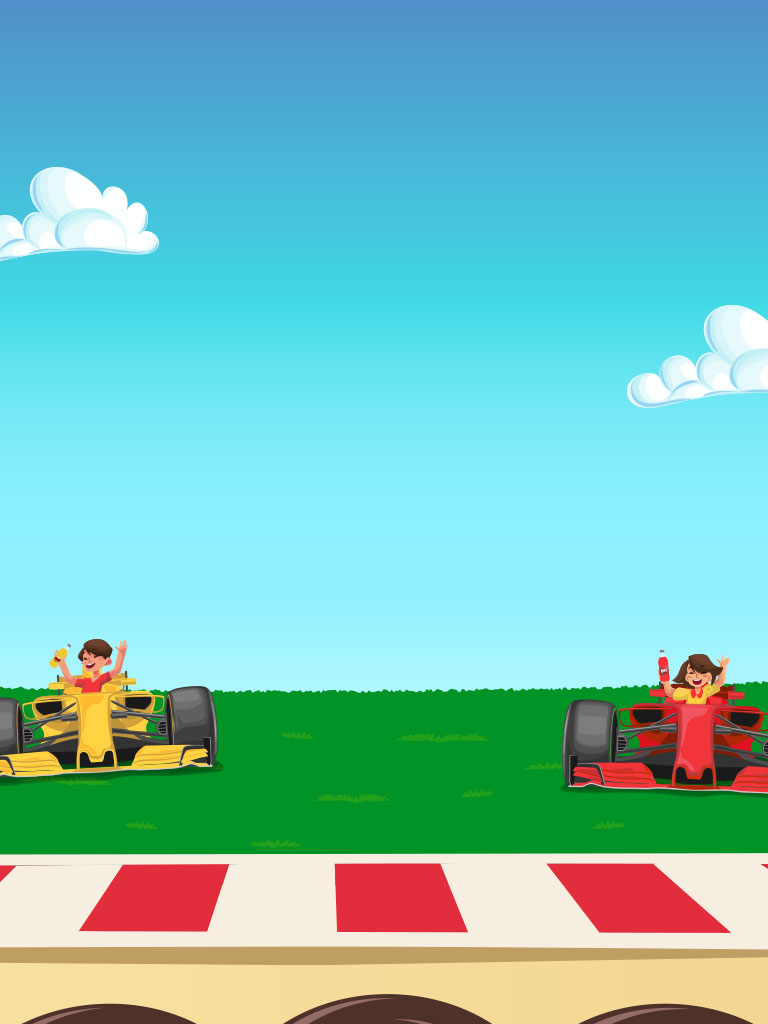
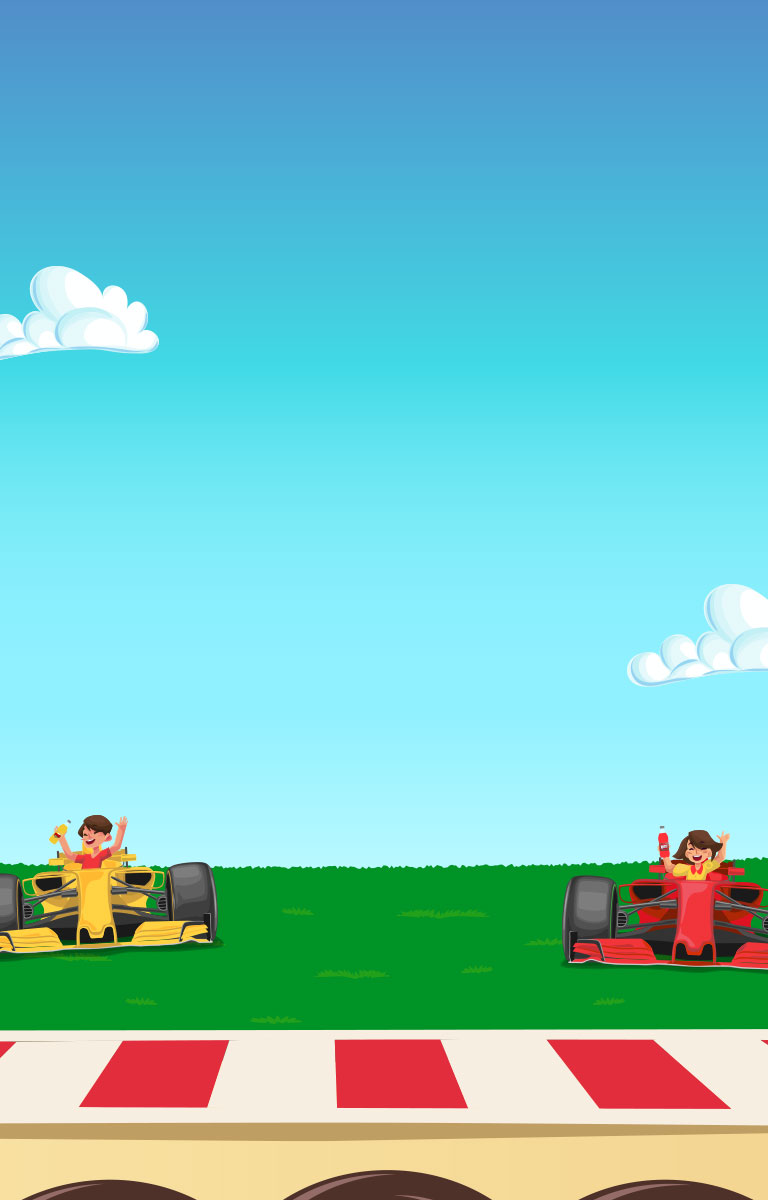
touches

diff --git a/src/_styles/pages/_home.scss b/src/_styles/pages/_home.scss
@@ -16,6 +16,25 @@
             height: 100%;
             z-index: -1;
 
+            @include mq(sm) {
+                display: none;
+            }
+
+            img {
+                width: 100%;
+                height: auto;
+            }
+        }
+
+        &__backdrop-tablet {
+            display: none;
+            height: 100%;
+            z-index: -1;
+
+            @include mq(sm) {
+                display: block;
+            }
+
             @include mq(md) {
                 display: none;
             }
@@ -83,7 +102,7 @@
         &__title {
             display: none;
 
-            @include mq(md) {
+            @include mq(sm) {
                 display: block;
                 font-size: 58px;
                 text-align: center;
@@ -94,7 +113,7 @@
         &__subtitle {
             display: none;
 
-            @include mq(md) {
+            @include mq(sm) {
                 display: block;
                 text-align: center;
                 font-size: 28px;
@@ -105,7 +124,20 @@
             }
         }
 
-        ._slidermulti {
+        &__slider {
+
+            position: absolute;
+            width: 100%;
+            left: 0;
+            top: 17%;
+
+            @include mq(sm) {
+                top: 25%;
+            }
+
+            @include mq(md) {
+                top: 32%;
+            }
             // button {
             //
             // }
@@ -137,17 +169,6 @@
             .slick-prev {
                 background: url("/images/arrow-prev.png") center center / cover !important;
                 left: 10px;
-            }
-        }
-
-        &__slider {
-            position: absolute;
-            width: 100%;
-            left: 0;
-            top: 17%;
-
-            @include mq(md) {
-                top: 32%;
             }
         }
 
@@ -192,6 +213,7 @@
 
         &__slide-text {
             font-size: 20px;
+            text-shadow: 1px 1px rgba(0,0,0,.4);
         }
     }
 
@@ -203,10 +225,16 @@
             height: 110vh;
             margin-top: -58%;
             margin-left: -45%;
+            max-height: 700px;
 
-            @include mq(md) {
+            @include mq(sm) {
                 margin-top: -15.5%;
                 margin-left: 0;
+                height: 60vh;
+                max-height: none;
+            }
+
+            @include mq(md) {
                 height: auto;
             }
 
@@ -215,8 +243,8 @@
                 width: auto;
 
                 @include mq(md) {
-                    width: 100%;
-                    height: auto;
+                    height: 100%;
+                    width: auto;
                 }
             }
         }
@@ -228,10 +256,14 @@
             left: 0;
             right: 0;
 
-            @include mq(md) {
+            @include mq(sm) {
                 left: 0;
                 top: 25%;
                 height: 45vh;
+            }
+
+            @include mq(md) {
+                height: 100%;
             }
         }
 
@@ -254,11 +286,16 @@
             .slick-dots {
                 bottom: 25vh;
 
+                @include mq(sm) {
+                    bottom: 10vh;
+                }
+
                 @include mq(md) {
                     transform: translate(0);
                     right: 16%;
                     left: auto;
-                    bottom: 30px;
+                    bottom: auto;
+                    top: 40%;
                 }
             }
         }
@@ -277,7 +314,7 @@
         &__slide-group {
             height: 100%;
 
-            @include mq(md) {
+            @include mq(sm) {
                 display: flex;
             }
         }
@@ -286,19 +323,15 @@
             height: 100%;
             margin-bottom: 60px;
 
-            @include mq(md) {
+            @include mq(sm) {
                 margin-bottom: 0;
                 width: 60%;
+                padding-right: 20px;
             }
 
             img {
                 width: 100%;
                 height: auto;
-
-                @include mq(md) {
-                    height: 100%;
-                    width: auto;
-                }
             }
         }
 
@@ -309,7 +342,7 @@
             align-items: center;
             flex-direction: column;
 
-            @include mq(md) {
+            @include mq(sm) {
                 width: 40%;
             }
         }
@@ -328,8 +361,12 @@
         }
 
         &__slide-text {
-            font-size: 20px;
+            font-size: 16px;
             font-family: $altFont;
+
+            @include mq(md) {
+                font-size: 20px;
+            }
         }
 
         // &__wrapper {
@@ -422,22 +459,26 @@
             .slick-prev,
             .slick-next {
                 display: block !important;
-                bottom: -50px !important;
+                bottom: -80px !important;
                 top: auto;
+                cursor: pointer;
+                width: 64px;
+                height: 64px;
 
                 @include mq(md) {
                     top: 40%;
                     transform: translateY(-50%);
                     bottom: auto;
+                    cursor: pointer;
                 }
             }
 
             .slick-next {
-                right: 40%;
+                right: 30%;
                 transform: translateX(50%);
 
                 @include mq(md) {
-                    right: -10%;
+                    right: -16%;
                 }
             }
 
@@ -457,10 +498,19 @@
 
         &__slide-image {
             width: 100%;
+            position: relative;
+            height: 0;
+            padding-bottom: 56.5%;
+            overflow: hidden;
 
-            img {
+            iframe {
                 width: 100%;
-                height: auto;
+                height: 100%;
+                position: absolute;
+                top:0;
+                left: 0;
+                right: 0;
+                bottom: 0;
             }
         }
     }

diff --git a/src/_modules/header/header.scss b/src/_modules/header/header.scss
@@ -7,6 +7,10 @@
         margin-right: auto;
         width: 70%;
 
+        @include mq(sm) {
+            width: 20%;
+        }
+
         @include mq(md) {
             width: 15%;
         }
